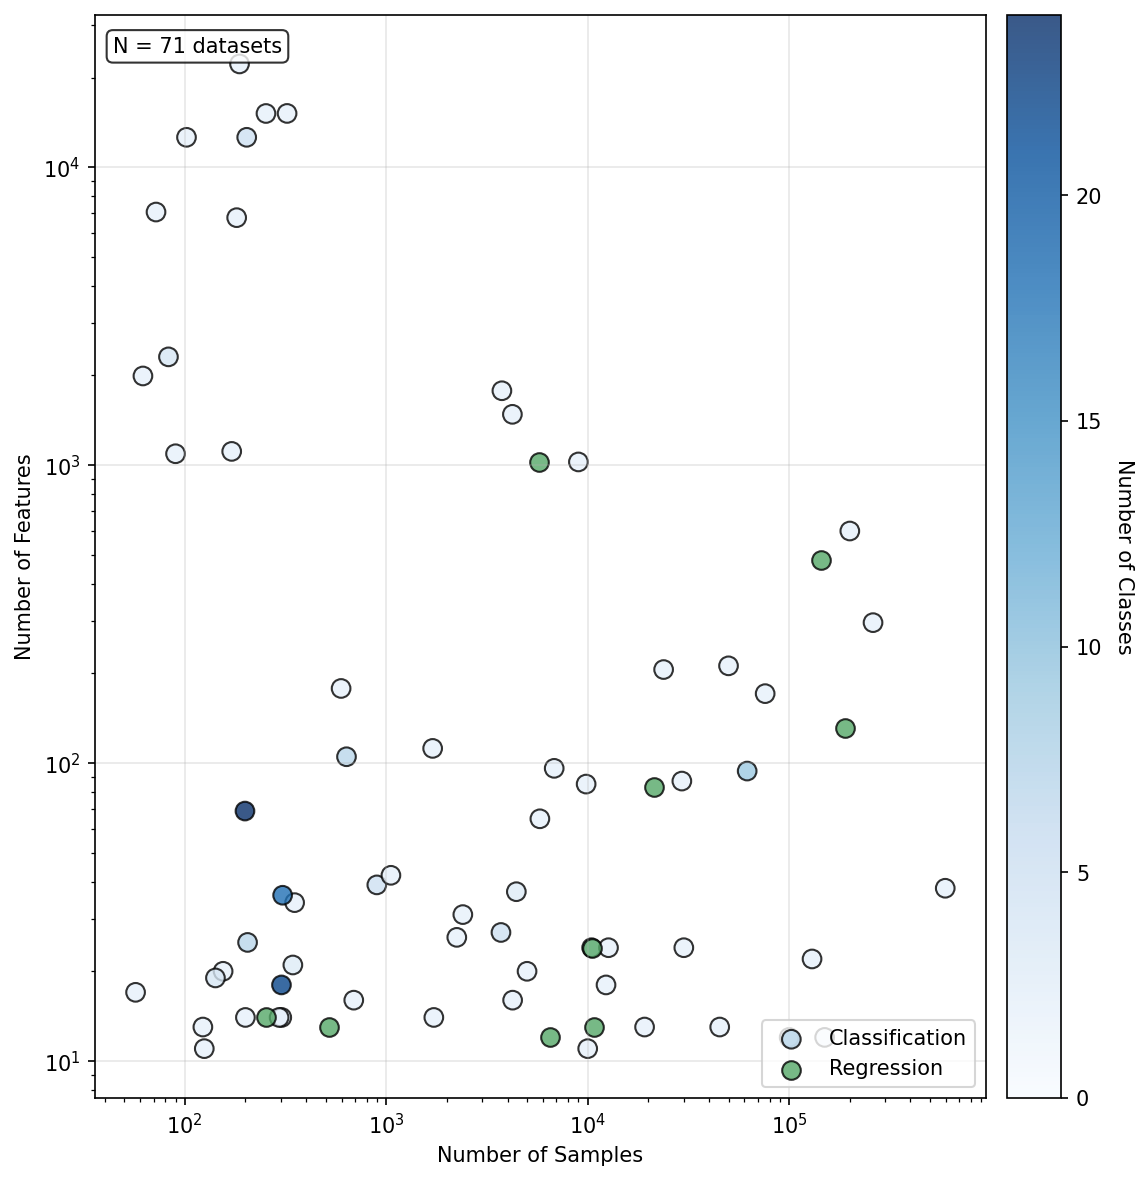
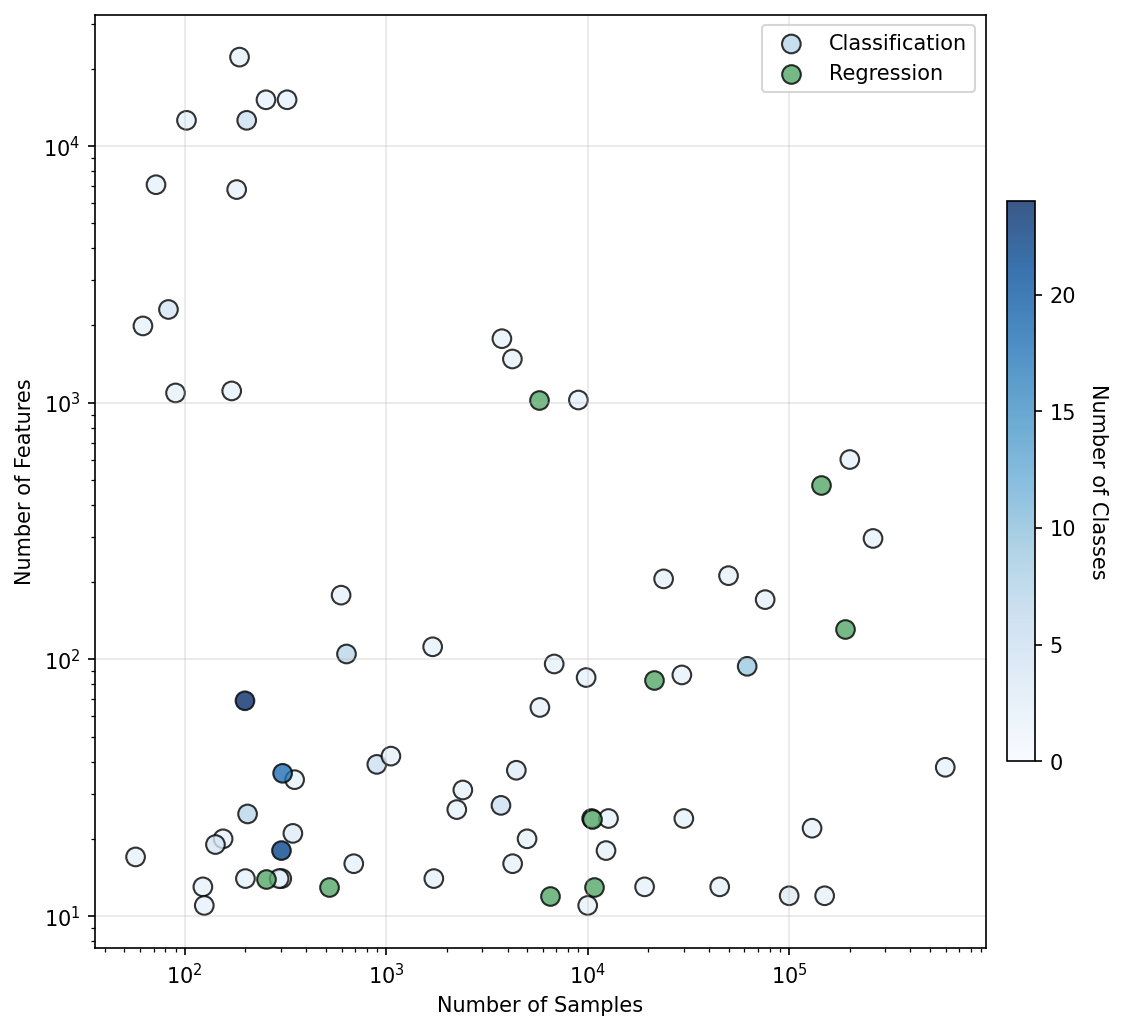
maint: optimize for paper

diff --git a/plotting_code/datasets/datasets_features_samples_v1.py b/plotting_code/datasets/datasets_features_samples_v1.py
@@ -27,7 +27,7 @@ def plot(df):
     df_class = dataset_data[dataset_data["n_classes"].notna()]
     df_reg = dataset_data[dataset_data["n_classes"].isna()]
 
-    fig, ax = plt.subplots(figsize=(8, 8))
+    fig, ax = plt.subplots(figsize=(8, 7))
 
     # 1. Plot Classification datasets (Color-coded by num_classes)
     if not df_class.empty:
@@ -46,7 +46,7 @@ def plot(df):
         )
 
         # Add a colorbar specifically for the classification scatter
-        cbar = fig.colorbar(scatter_class, ax=ax, pad=0.02)
+        cbar = fig.colorbar(scatter_class, ax=ax, pad=0.02, shrink=0.6)
         cbar.set_label("Number of Classes", rotation=270, labelpad=15)
 
     # 2. Plot Regression datasets (Solid Green)
@@ -72,12 +72,7 @@ def plot(df):
     ax.set_yscale("log")
 
     # Display the standard legend (shows Classification vs Regression dots)
-    ax.legend(loc="lower right")
-
-    # Add dataset count annotation
-    ax.text(0.02, 0.98, f"N = {len(dataset_data)} datasets",
-            transform=ax.transAxes, va="top", ha="left",
-            bbox=dict(boxstyle="round,pad=0.3", facecolor="white", alpha=0.8))
+    ax.legend(loc="upper right")
 
     plt.tight_layout()
     out = OUTPUT_DIR / PLOT_NAME

diff --git a/plotting_code/datasets/datasets_task_v1.py b/plotting_code/datasets/datasets_task_v1.py
@@ -3,6 +3,7 @@ from pathlib import Path
 import numpy as np
 import pandas as pd
 from matplotlib import pyplot as plt
+import textwrap  # <-- NEW: Import textwrap
 
 # TODO: Adapt file and plot name
 FILE_NAME = "data_foundry.csv"
@@ -12,6 +13,7 @@ PLOT_NAME = "dataset_task_v1.png"
 PLOT_TITLE = "Dummy Plot"
 X_LABEL = "Feature Selection Method"
 Y_LABEL = "Metric Error"
+
 
 # TODO: Adapt plotting function
 def plot(df):
@@ -27,10 +29,14 @@ def plot(df):
     bins_pos = np.arange(len(task_counts))
     ax.bar(bins_pos, task_counts.values, color="#4C72B0", alpha=0.8, edgecolor="black")
 
+    # --- NEW CODE: Use textwrap to format labels ---
+    # Wraps text so that no single line is longer than ~12 characters
+    multi_line_labels = [label.replace(" ", "\n") for label in task_counts.index]
+
     ax.set_xticks(bins_pos)
-    ax.set_xticklabels(task_counts.index, rotation=45, ha="right")
-    ax.set_title("Datasets by Task")
-    ax.set_xlabel("Task")
+    ax.set_xticklabels(multi_line_labels, rotation=0, ha="center", va="top", fontsize=8)  # Slightly smaller font
+
+    ax.set_title("Datasets by Problem Type")
     ax.set_ylabel("Number of Datasets")
     ax.grid(True, alpha=0.3, axis="y")
 
